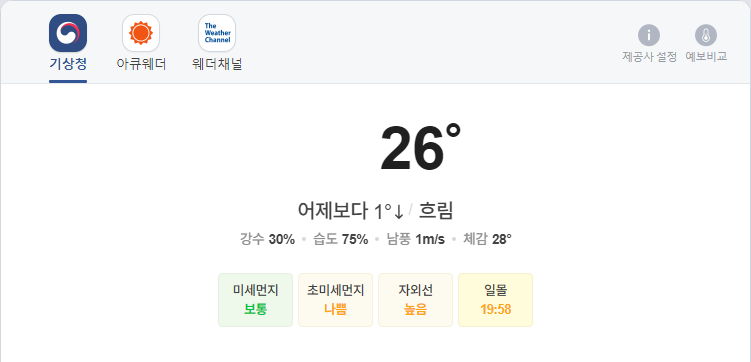
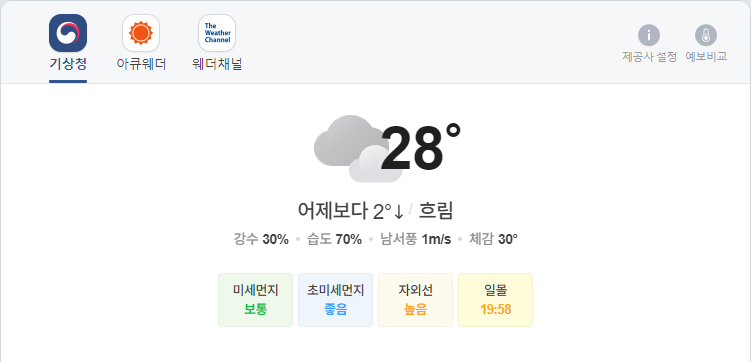
update result

diff --git a/README.md b/README.md
@@ -1,5 +1,5 @@
-##  2021-07-07 09:17:35   수요일 
-##### 날씨   -   어제보다 1° 낮아요흐림  
+##  2021-07-07 12:07:31   수요일 
+##### 날씨   -   어제보다 2° 낮아요흐림  
 <center><img src="../img/naver_weather_week.png"></center>
 ----
 ----
@@ -16,14 +16,14 @@
 <tr align = "right" > <td>DOW</td><td>34,577.37</td><td>-208.98</td><td><font size="3" color="blue" >-0.6%</font></td><td><font size="3" color="black">0</font></td><td><font size="3" color="black">0</font></td><td>0</td>  </tr>
 <tr align = "right" > <td>NASDAQ</td><td>14,663.64</td><td>24.31</td><td><font size="3" color="red" >0.17%</font></td><td><font size="3" color="black">0</font></td><td><font size="3" color="black">0</font></td><td>0</td>  </tr>
 <tr align = "right" > <td>S&P</td><td>4,343.54</td><td>-8.8</td><td><font size="3" color="blue" >-0.2%</font></td><td><font size="3" color="black">0</font></td><td><font size="3" color="black">0</font></td><td>0</td>  </tr>
-<tr align = "right" > <td>SHANHAI</td><td>3,530.26</td><td>-4.06</td><td><font size="3" color="blue" >-0.11%</font></td><td><font size="3" color="black">0</font></td><td><font size="3" color="black">0</font></td><td>0</td>  </tr>
+<tr align = "right" > <td>SHANHAI</td><td>3,534.77</td><td>4.51</td><td><font size="3" color="red" >0.13%</font></td><td><font size="3" color="black">0</font></td><td><font size="3" color="black">0</font></td><td>0</td>  </tr>
 <tr align = "right" > <td>INDIA</td><td>52,861.18</td><td>-18.82</td><td><font size="3" color="blue" >-0.04%</font></td><td><font size="3" color="black">0</font></td><td><font size="3" color="black">0</font></td><td>0</td>  </tr>
 </table>
 ----
 ##### 시장
 <table border="1" bordercolor="blue" align = "center" >
 <tr align = "right" > <td>Item</td><td>Price</td><td>Diff</td><td>Rate</td><td>Buy</td><td>Sell</td><td>...</td>  </tr>
-<tr align = "right" > <td>USD</td><td>1,137.0</td><td>3.1</td><td><font size="3" color="red">0.27%</font></td><td><font size="3" color="black">1,110</font></td><td><font size="3" color="black">0</font></td><td>0</td>  </tr>
+<tr align = "right" > <td>USD</td><td>1,136.0</td><td>2.2</td><td><font size="3" color="red">0.19%</font></td><td><font size="3" color="black">1,110</font></td><td><font size="3" color="black">0</font></td><td>0</td>  </tr>
 <tr align = "right" > <td>WTI</td><td>73.37</td><td>-1.79</td><td><font size="3" color="blue">-2.38%</font></td><td><font size="3" color="black">29.0</font></td><td><font size="3" color="black">0</font></td><td>0</td>  </tr>
 <tr align = "right" > <td>GOLD</td><td>1,793.0</td><td>10.9</td><td><font size="3" color="red">0.61%</font></td><td><font size="3" color="black">0</font></td><td><font size="3" color="black">0</font></td><td>0</td>  </tr>
 </table>
@@ -31,26 +31,26 @@
 ##### 주가
 <table border="1" bordercolor="blue" align = "center" >
 <tr align = "right" > <td>Item</td><td>Price</td><td>Diff</td><td>Rate</td><td>Purchased</td><td>Sell</td><td>Buy</td>  </tr>
-<tr align = "right" > <td>한국 전력</td><td>25,000</td><td>-100</td><td><font size="3" color="blue">-0.4%</font></td><td>25,720</td><td><font size="3" color="black">27,700</font></td><td><font size="3" color="black">20,700</font></td>  </tr>
-<tr align = "right" > <td>삼성엔지니어.</td><td>23,400</td><td>-750</td><td><font size="3" color="blue">-3.11%</font></td><td>18,935</td><td><font size="3" color="black">20,000</font></td><td><font size="3" color="black">8,000</font></td>  </tr>
-<tr align = "right" > <td>CJ CGV</td><td>31,150</td><td>-800</td><td><font size="3" color="blue">-2.5%</font></td><td>34,895</td><td><font size="3" color="black">36,000</font></td><td><font size="3" color="black">0</font></td>  </tr>
-<tr align = "right" > <td>아모레퍼시픽</td><td>245,500</td><td>-500</td><td><font size="3" color="blue">-0.2%</font></td><td>235,350</td><td><font size="3" color="black">240,000</font></td><td><font size="3" color="black">130,000</font></td>  </tr>
-<tr align = "right" > <td>한화</td><td>31,250</td><td>-450</td><td><font size="3" color="blue">-1.42%</font></td><td>25,550</td><td><font size="3" color="black">26,250</font></td><td><font size="3" color="black">26,250</font></td>  </tr>
-<tr align = "right" > <td>NAVER</td><td>414,500</td><td>5,000</td><td><font size="3" color="red">1.22%</font></td><td>147,200</td><td><font size="3" color="black">386,000</font></td><td><font size="3" color="black">286,000</font></td>  </tr>
-<tr align = "right" > <td>LG 화학우</td><td>382,000</td><td>-2,000</td><td><font size="3" color="blue">-0.52%</font></td><td>202,490</td><td><font size="3" color="black">384,000</font></td><td><font size="3" color="orangered">384,000</font></td>  </tr>
-<tr align = "right" > <td>스튜디오드래.</td><td>94,900</td><td>-600</td><td><font size="3" color="blue">-0.63%</font></td><td>81,243</td><td><font size="3" color="black">85,200</font></td><td><font size="3" color="black">85,200</font></td>  </tr>
-<tr align = "right" > <td>QV미국IT</td><td>30,705</td><td>0</td><td><font size="3" color="black">0.0%</font></td><td>0</td><td><font size="3" color="black">30,000</font></td><td><font size="3" color="black">20,000</font></td>  </tr>
+<tr align = "right" > <td>한국 전력</td><td>24,850</td><td>-250</td><td><font size="3" color="blue">-1.0%</font></td><td>25,720</td><td><font size="3" color="black">27,700</font></td><td><font size="3" color="black">20,700</font></td>  </tr>
+<tr align = "right" > <td>삼성엔지니어.</td><td>23,100</td><td>-1,050</td><td><font size="3" color="blue">-4.35%</font></td><td>18,935</td><td><font size="3" color="black">20,000</font></td><td><font size="3" color="black">8,000</font></td>  </tr>
+<tr align = "right" > <td>CJ CGV</td><td>30,450</td><td>-1,500</td><td><font size="3" color="blue">-4.69%</font></td><td>34,895</td><td><font size="3" color="black">36,000</font></td><td><font size="3" color="black">0</font></td>  </tr>
+<tr align = "right" > <td>아모레퍼시픽</td><td>244,500</td><td>-1,500</td><td><font size="3" color="blue">-0.61%</font></td><td>235,350</td><td><font size="3" color="black">240,000</font></td><td><font size="3" color="black">130,000</font></td>  </tr>
+<tr align = "right" > <td>한화</td><td>31,150</td><td>-550</td><td><font size="3" color="blue">-1.74%</font></td><td>25,550</td><td><font size="3" color="black">26,250</font></td><td><font size="3" color="black">26,250</font></td>  </tr>
+<tr align = "right" > <td>NAVER</td><td>415,500</td><td>6,000</td><td><font size="3" color="red">1.47%</font></td><td>147,200</td><td><font size="3" color="black">386,000</font></td><td><font size="3" color="black">286,000</font></td>  </tr>
+<tr align = "right" > <td>LG 화학우</td><td>383,000</td><td>-1,000</td><td><font size="3" color="blue">-0.26%</font></td><td>202,490</td><td><font size="3" color="black">384,000</font></td><td><font size="3" color="orangered">384,000</font></td>  </tr>
+<tr align = "right" > <td>스튜디오드래.</td><td>94,700</td><td>-800</td><td><font size="3" color="blue">-0.84%</font></td><td>81,243</td><td><font size="3" color="black">85,200</font></td><td><font size="3" color="black">85,200</font></td>  </tr>
+<tr align = "right" > <td>QV미국IT</td><td>31,145</td><td>440</td><td><font size="3" color="red">1.43%</font></td><td>0</td><td><font size="3" color="black">30,000</font></td><td><font size="3" color="black">20,000</font></td>  </tr>
 <tr align = "right" > <td>삼성 전자우</td><td>73,500</td><td>-400</td><td><font size="3" color="blue">-0.54%</font></td><td>48,250</td><td><font size="3" color="black">56,000</font></td><td><font size="3" color="black">45,000</font></td>  </tr>
-<tr align = "right" > <td>LS</td><td>69,900</td><td>-1,200</td><td><font size="3" color="blue">-1.69%</font></td><td>71,900</td><td><font size="3" color="black">82,000</font></td><td><font size="3" color="black">60,000</font></td>  </tr>
-<tr align = "right" > <td>한화에어로스.</td><td>54,300</td><td>0</td><td><font size="3" color="black">0.0%</font></td><td>25,700</td><td><font size="3" color="black">30,000</font></td><td><font size="3" color="black">24,000</font></td>  </tr>
-<tr align = "right" > <td>카카오</td><td>161,500</td><td>4,000</td><td><font size="3" color="red">2.54%</font></td><td>405,500</td><td><font size="3" color="black">440,000</font></td><td><font size="3" color="orangered">400,000</font></td>  </tr>
-<tr align = "right" > <td>호텔 신라</td><td>95,100</td><td>-2,100</td><td><font size="3" color="blue">-2.16%</font></td><td>72,800</td><td><font size="3" color="black">100,000</font></td><td><font size="3" color="black">70,000</font></td>  </tr>
+<tr align = "right" > <td>LS</td><td>68,900</td><td>-2,200</td><td><font size="3" color="blue">-3.09%</font></td><td>71,900</td><td><font size="3" color="black">82,000</font></td><td><font size="3" color="black">60,000</font></td>  </tr>
+<tr align = "right" > <td>한화에어로스.</td><td>54,000</td><td>-300</td><td><font size="3" color="blue">-0.55%</font></td><td>25,700</td><td><font size="3" color="black">30,000</font></td><td><font size="3" color="black">24,000</font></td>  </tr>
+<tr align = "right" > <td>카카오</td><td>161,000</td><td>3,500</td><td><font size="3" color="red">2.22%</font></td><td>405,500</td><td><font size="3" color="black">440,000</font></td><td><font size="3" color="orangered">400,000</font></td>  </tr>
+<tr align = "right" > <td>호텔 신라</td><td>94,300</td><td>-2,900</td><td><font size="3" color="blue">-2.98%</font></td><td>72,800</td><td><font size="3" color="black">100,000</font></td><td><font size="3" color="black">70,000</font></td>  </tr>
 <tr align = "right" > <td>S-Oil</td><td>105,000</td><td>-5,000</td><td><font size="3" color="blue">-4.55%</font></td><td>62,842</td><td><font size="3" color="black">100,000</font></td><td><font size="3" color="black">50,000</font></td>  </tr>
-<tr align = "right" > <td>LG전자</td><td>170,000</td><td>0</td><td><font size="3" color="black">0.0%</font></td><td>82,022</td><td><font size="3" color="black">100,000</font></td><td><font size="3" color="black">60,000</font></td>  </tr>
-<tr align = "right" > <td>KT&G</td><td>83,900</td><td>-300</td><td><font size="3" color="blue">-0.36%</font></td><td>80,400</td><td><font size="3" color="black">100,000</font></td><td><font size="3" color="black">70,000</font></td>  </tr>
-<tr align = "right" > <td>지역난방공사</td><td>43,000</td><td>-100</td><td><font size="3" color="blue">-0.23%</font></td><td>43,590</td><td><font size="3" color="black">60,000</font></td><td><font size="3" color="black">30,000</font></td>  </tr>
-<tr align = "right" > <td>KOEDX은행</td><td>7,435</td><td>-120</td><td><font size="3" color="blue">-1.59%</font></td><td>5,178</td><td><font size="3" color="black">6,225</font></td><td><font size="3" color="black">6,225</font></td>  </tr>
-<tr align = "right" > <td>글로벌럭셔리</td><td>18,010</td><td>-150</td><td><font size="3" color="blue">-0.83%</font></td><td>15,260</td><td><font size="3" color="black">20,000</font></td><td><font size="3" color="black">10,000</font></td>  </tr>
+<tr align = "right" > <td>LG전자</td><td>167,500</td><td>-2,500</td><td><font size="3" color="blue">-1.47%</font></td><td>82,022</td><td><font size="3" color="black">100,000</font></td><td><font size="3" color="black">60,000</font></td>  </tr>
+<tr align = "right" > <td>KT&G</td><td>83,700</td><td>-500</td><td><font size="3" color="blue">-0.59%</font></td><td>80,400</td><td><font size="3" color="black">100,000</font></td><td><font size="3" color="black">70,000</font></td>  </tr>
+<tr align = "right" > <td>지역난방공사</td><td>43,050</td><td>-50</td><td><font size="3" color="blue">-0.12%</font></td><td>43,590</td><td><font size="3" color="black">60,000</font></td><td><font size="3" color="black">30,000</font></td>  </tr>
+<tr align = "right" > <td>KOEDX은행</td><td>7,410</td><td>-145</td><td><font size="3" color="blue">-1.92%</font></td><td>5,178</td><td><font size="3" color="black">6,225</font></td><td><font size="3" color="black">6,225</font></td>  </tr>
+<tr align = "right" > <td>글로벌럭셔리</td><td>18,025</td><td>-135</td><td><font size="3" color="blue">-0.74%</font></td><td>15,260</td><td><font size="3" color="black">20,000</font></td><td><font size="3" color="black">10,000</font></td>  </tr>
 <tr align = "right" > <td>한국금융지주</td><td>97,600</td><td>-1,100</td><td><font size="3" color="blue">-1.11%</font></td><td>0</td><td><font size="3" color="black">82,000</font></td><td><font size="3" color="black">60,000</font></td>  </tr>
 </table>
 ----
